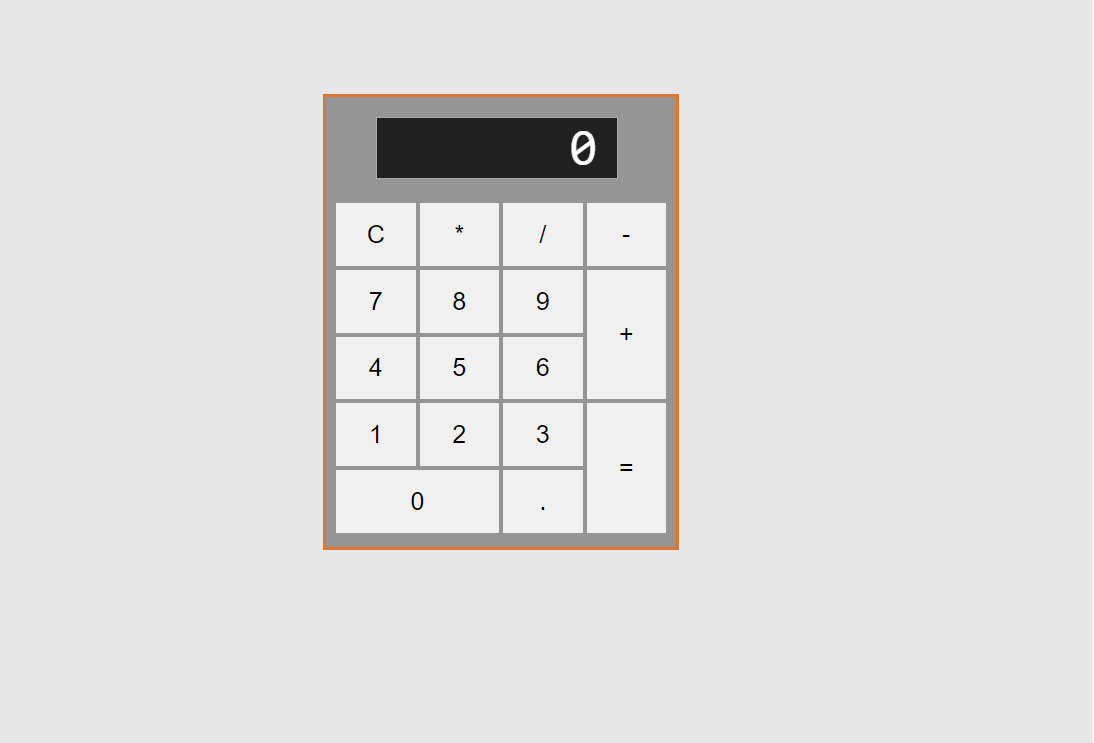
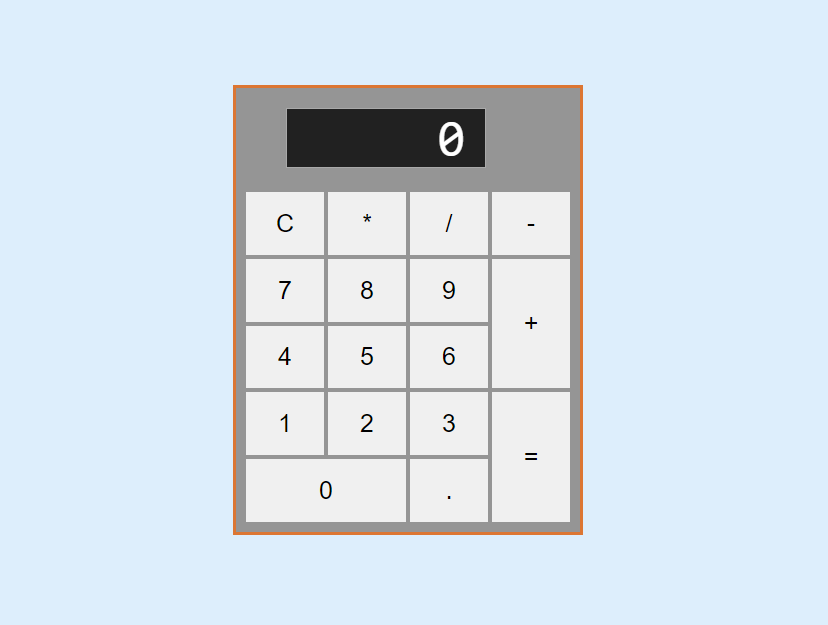
cambio imagen del proyecto 3

Changed region(s): [[0.2717, 0.1216, 0.7246, 0.8816], [0.9964, 0.0, 1.0, 1.0]]

diff --git a/Aplicacion de productos/productos.css b/Aplicacion de productos/productos.css
@@ -1,4 +1,6 @@
-
+body{
+    background-color: #ddeefc;
+}
 .github-container{
     font-size: 18px;
     text-align: center;
